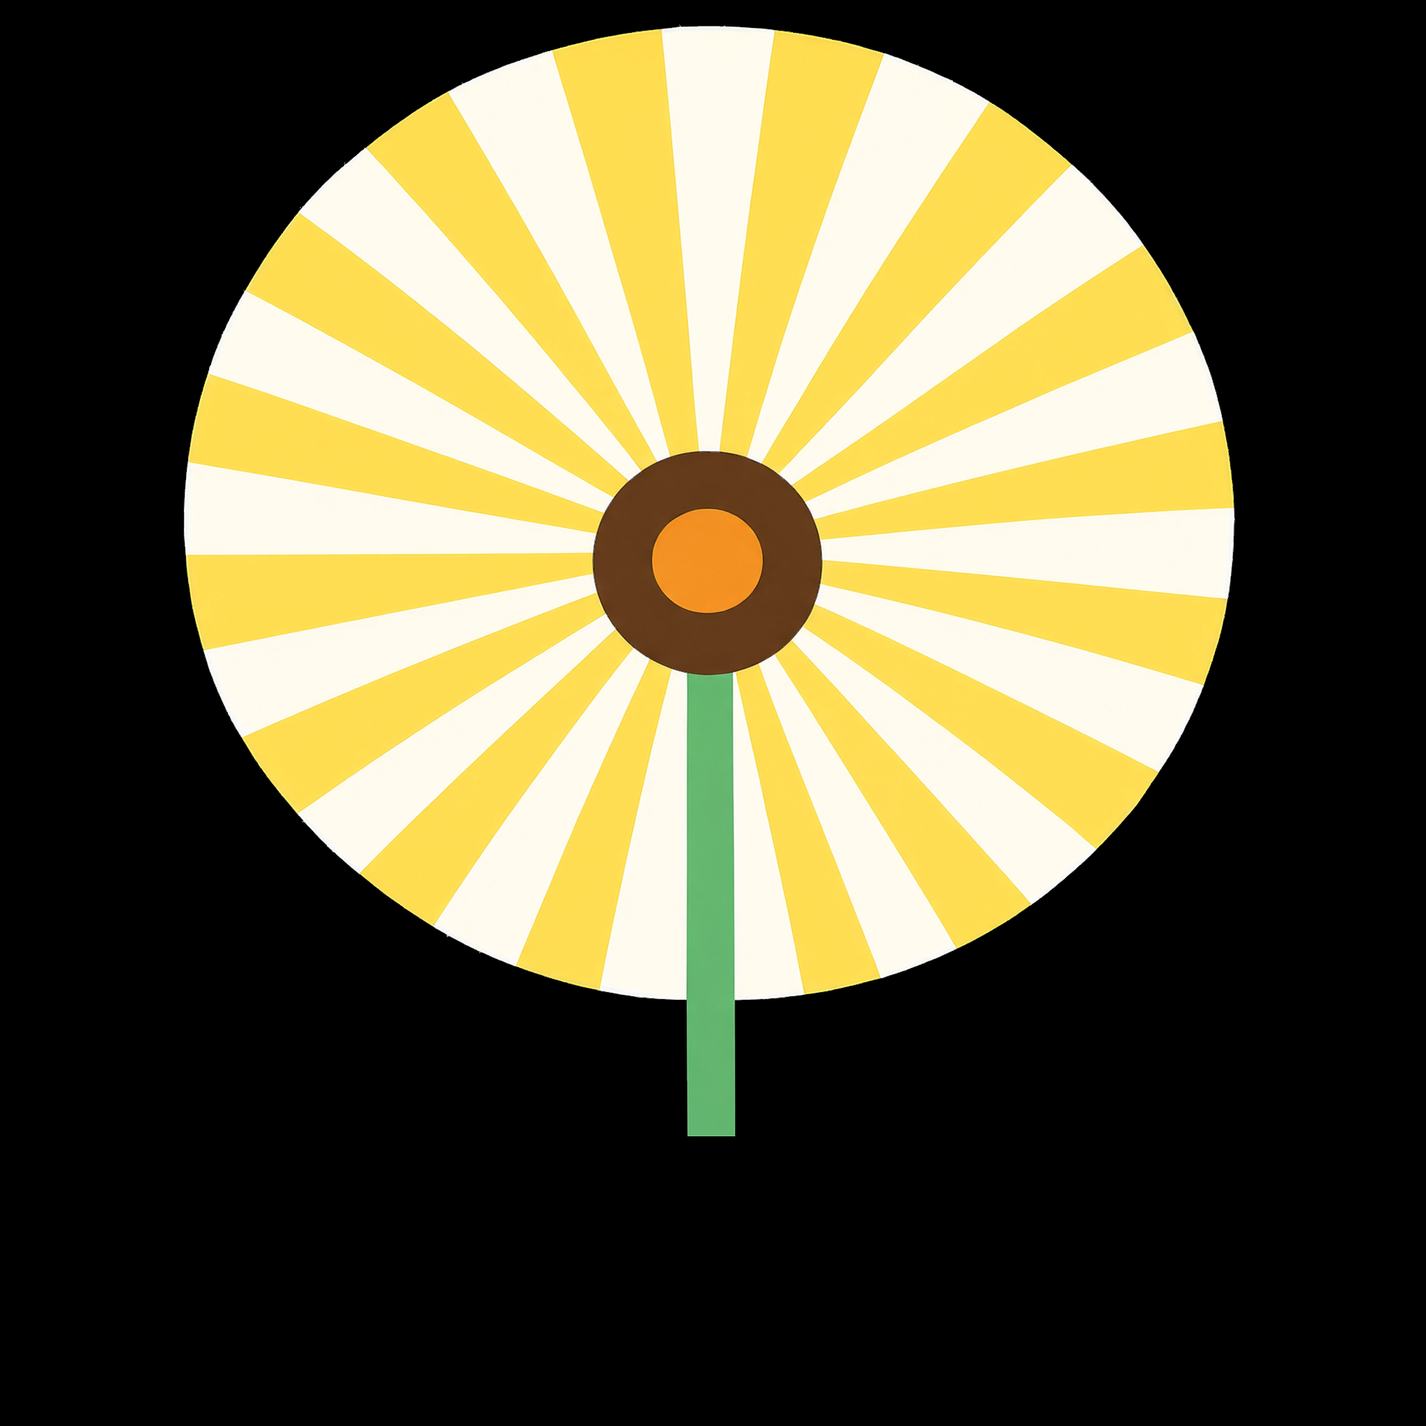
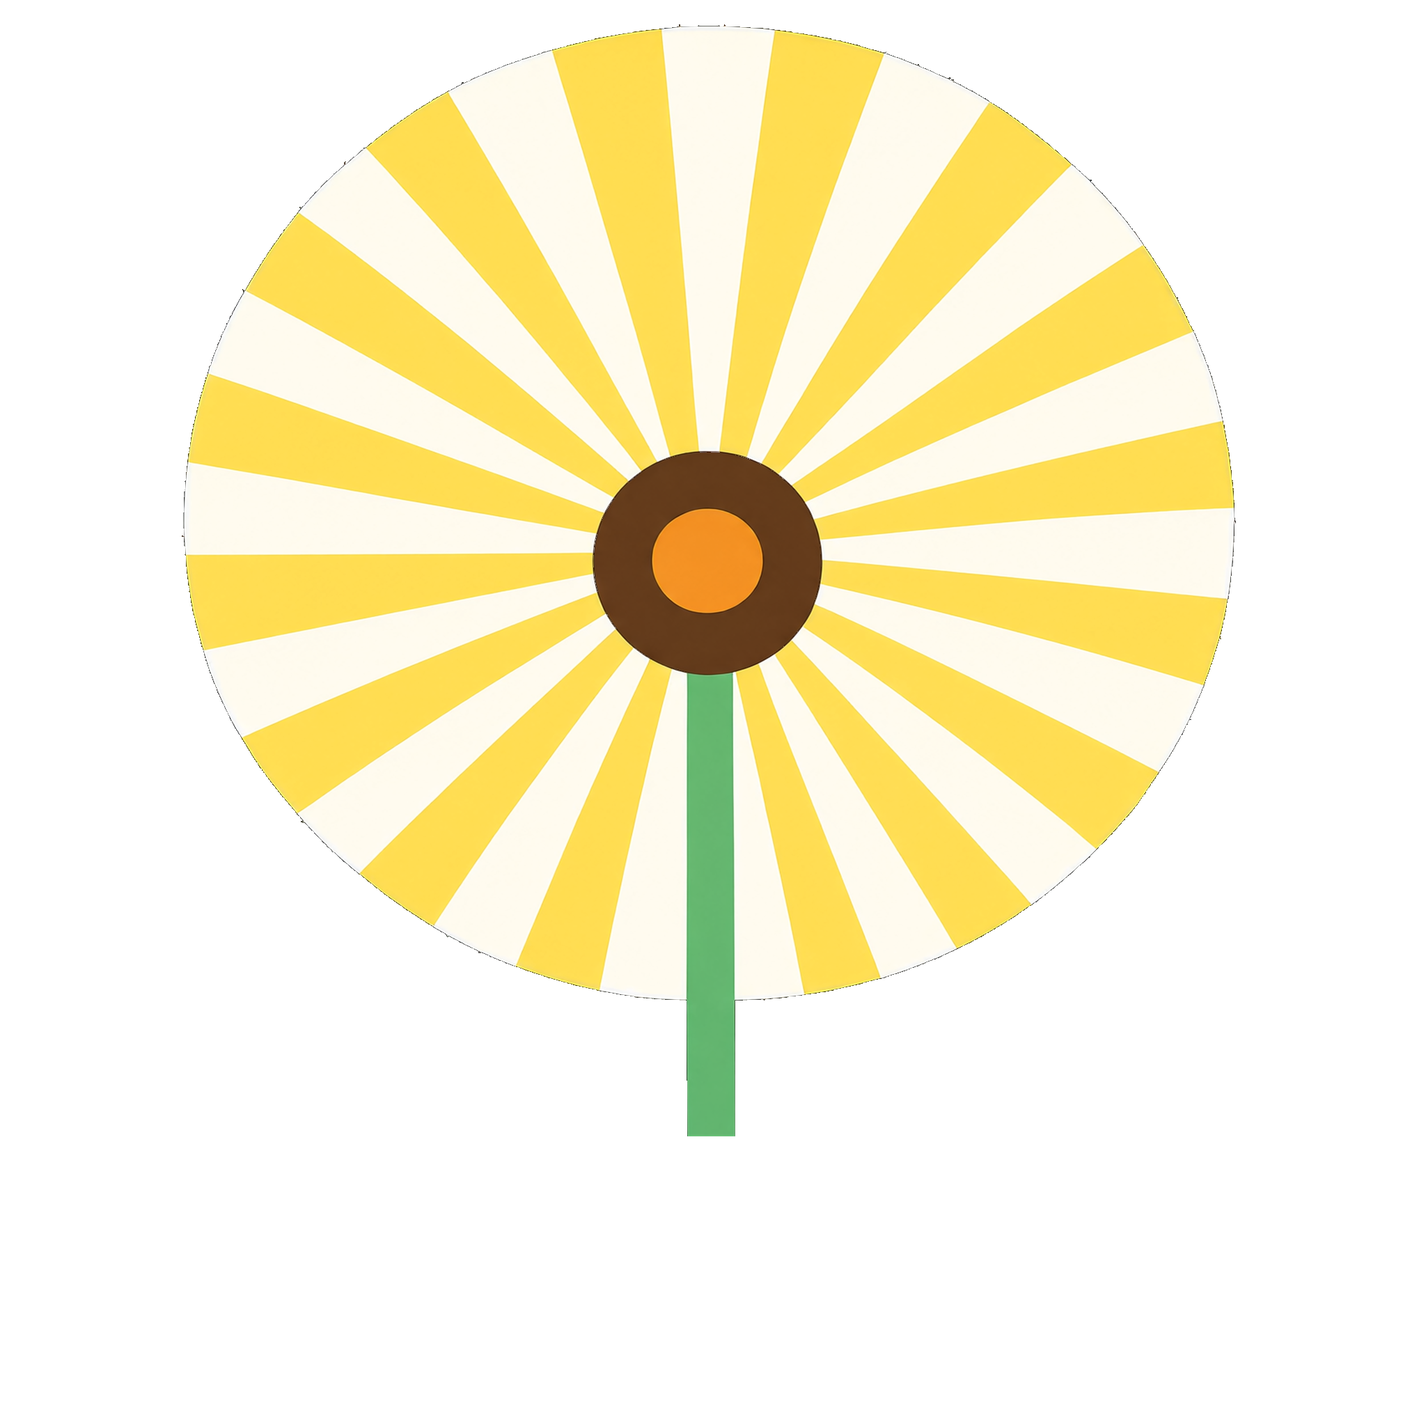
feat(art): A01-P08 蒲公英 v1 锁版 + A01 进度 8/180 (WXG-T-980)
- fix-a01p08-v1.py 重写：halo 用最近主体 RGB 就地填补（不置 α=0）+ 4 连通
  主分量过滤，与 extract-alpha 的 PIL floodfill 同口径 ⇒ G3 单连通 true
- 终版 a01p08-v1-s42-rgba-final.png：G9 73.93%×77.98%、近黑 0、alpha0 60.048%
- studio 32×32/c5/mis=max：importable=true、voidCells=0、F=0（458/458）
- G12 已知例外登记：只聚 4 色缺橙、最大色面 46.1%（白黄实测 87% 吸橙簇）
- 新增 generation-record.txt；台账追加 1 调用/1 出图/0 浪费
- series-spec：名额 7/180 → 8/180，P01–P08 全锁，下一步 P09 boss
- 清理 4 个重复中间件（final-2 / final2）

diff --git a/games/beads/design/art/proposals/levels-20arcs-selection-20261117/A01-P08-dandelion/fix-a01p08-v1.py b/games/beads/design/art/proposals/levels-20arcs-selection-20261117/A01-P08-dandelion/fix-a01p08-v1.py
@@ -1,14 +1,15 @@
 #!/usr/bin/env python3
 # -*- coding: utf-8 -*-
 """A01-P08 v1 确定性修复（零模型调用）。
-v1 问题：主体 G9 61.72% × 93.36%（球宽窄、茎戳到底 H 爆）+ 15 颗 1–4 px 孤点（破单连通）+
+v1 问题：G9 61.72% × 93.36%（球宽窄、茎戳到底 H 爆）+ 15 颗 1–4 px 孤点（破单连通）+
 LANCZOS 抗锯齿产生深色 halo（max<60 伪像素，破 G8 近黑禁）。
 修复：
-  1) 保留主连通分量（≥100 px），擦除所有孤点 → 单连通；
-  2) 茎底裁到 y=1570（画布 76.6% 处），使 H 由 93% 降到 ~76%；
-  3) 行级横纵独立拉伸到目标 W=1515 / H=1597（G9 74% × 78%），水平 / 纵向各算各自比例；
-  4) LANCZOS 后 α≥128 统一 255，再擦除 RGB.max()<40 的深色 halo（G8 合规）；
-  5) 再次 label + 只留主分量防残留漂点。
+  1) 擦除 <100 px 孤点；
+  2) 茎底裁到 y=1570（画布 76.6% 处）；
+  3) 横纵独立拉伸到 G9 目标（W 74% / H 78%），4× 放大再 LANCZOS 缩回；
+  4) α≥128 统一 255；深色 halo（max<60）用最近非 halo 像素 RGB 就地填补
+     —— 不置 α=0（会在体内造空洞，平铺黑底后成近黑孤岛，破 G8）；
+  5) 4 连通 label，只留主分量（≥10000 px）⇒ G3 与 extract-alpha 的 PIL floodfill 同口径。
 输入：a01p08-v1-s42-rgba.png（extract-alpha 抠图产物）。"""
 import os
 
@@ -23,16 +24,19 @@ DST = os.path.join(BATCH, "a01p08-v1-s42-rgba-fixed.png")
 im = Image.open(SRC).convert("RGBA")
 w, h = im.size
 arr = np.asarray(im).copy()
-a = arr[:, :, 3] > 128
 
-# ── 1) 保留主连通分量（≥100 px），擦除所有 ≤10 px 孤点 ──
+# ── 1) 擦除 <100 px 孤点（模型飞絮碎点） ──
+a = arr[:, :, 3] > 128
 labeled, n = ndimage.label(a, structure=np.ones((3, 3), dtype=int))
+removed = 0
 for i in range(1, n + 1):
     c = int((labeled == i).sum())
     if c < 100:
         arr[labeled == i] = 0
+        removed += 1
+print(f"speck components removed: {removed}")
 
-# ── 2) 茎底裁到 y=1570（画布 76.6% 处），H≈76% ──
+# ── 2) 茎底裁到 y=1570（画布 76.6% 处） ──
 arr[1570:, :, 3] = 0
 
 # ── 3) 横纵独立拉伸到 G9 目标 ──
@@ -52,18 +56,35 @@ shrunk = hi.resize((int(w * k_x), int(h * k_y)), Image.LANCZOS)
 canvas = Image.new("RGBA", (w, h), (0, 0, 0, 0))
 canvas.paste(shrunk, ((w - shrunk.size[0]) // 2, (h - shrunk.size[1]) // 2))
 
-# ── 4) α≥128 统一 255 + 擦除深色 halo（G8：主体禁近黑伪像素；置 α=0，非 RGB） ──
+# ── 4) α≥128 统一 255；深色 halo 用最近非 halo 主体 RGB 填补 ──
 arr_out = np.asarray(canvas).copy()
 arr_out[:, :, 3] = np.where(arr_out[:, :, 3] >= 128, 255, 0).astype(np.uint8)
-halo = (arr_out[:, :, 3] > 128) & (arr_out[:, :, :3].max(2) < 60)  # 只在原主体 alpha 内擦 halo，别吃黑 bg
-arr_out[halo, 3] = 0
+keep = arr_out[:, :, 3] > 0
+donor = keep & (arr_out[:, :, :3].max(2) >= 60)
+halo = keep & ~donor
+print(f"halo px (max<60, alpha>0): {int(halo.sum())}")
+if halo.any() and donor.any():
+    idx = ndimage.distance_transform_edt(~donor, return_distances=False, return_indices=True)
+    arr_out[:, :, :3] = arr_out[idx[0], idx[1], :3]
 
-# ── 5) 再次 label + 只留主分量 ──
-a3 = arr_out[:, :, 3] > 128
-lbl3, n3 = ndimage.label(a3, structure=np.ones((3, 3), dtype=int))
+# ── 5) 4 连通 label（与 PIL floodfill 同口径），只留主分量 ──
+a3 = arr_out[:, :, 3] > 0
+lbl3, n3 = ndimage.label(a3)  # 默认 cross = 4 连通
+sizes = ndimage.sum(a3, lbl3, range(1, n3 + 1))
+kept = int((sizes >= 10000).sum())
 for i in range(1, n3 + 1):
-    if int((lbl3 == i).sum()) < 10000:
+    if sizes[i - 1] < 10000:
         arr_out[lbl3 == i] = 0
+print(f"4-conn components: {n3}, kept: {kept}")
+
+# 自检
+final = arr_out[:, :, 3] > 0
+lf, nf = ndimage.label(final)
+print(f"final 4-conn components: {nf} (expect 1)")
+ys, xs = np.where(final)
+print(f"final bbox W% {(xs.max()-xs.min()+1)/w*100:.2f}  H% {(ys.max()-ys.min()+1)/h*100:.2f}")
+print(f"final near-black (max<=24 & alpha>0): "
+      f"{int((final & (arr_out[:, :, :3].max(2) <= 24)).sum())}")
 
 Image.fromarray(arr_out).save(DST)
 print("OK ->", DST)

diff --git a/games/beads/design/art/proposals/levels-20arcs-selection-20261117/series-spec.md b/games/beads/design/art/proposals/levels-20arcs-selection-20261117/series-spec.md
@@ -13,7 +13,7 @@
 |---|---|---|
 | 1 | 背景用「纯黑背景 + 程序化抠 alpha」：提示词写纯黑 `#000` 背景，出图后本地 floodfill 确定性抠成透明，可验收 | §3 把纯黑定性为**采样排除信号**：唯一目的就是让 studio 不采样背景区域；本地转 `alpha=0` 是把这个信号交给 studio 的方式，主体禁近黑，验收查 alpha 分布 |
 | 2 | 风格目标是「符合 studio 生图要求的风格画」，方法与口径由助手按行业最佳实践判断 | §1 给判断与依据，§2 落成可写进提示词的硬约束 |
-| 3 | **首轮只写 20 套系列规范**；180 条提示词留到逐张确认时再逐条写 | 本件止于风格宪法与流程；20 套模板与逐张占位字段已外移为明细册；**已出 4 张正式图且效果确认完成（A01-P01/P02/P03/P04，见各批目录）**，其余 176 待逐张确认。另有第 0 张通道探路（1 次调用，不占名额，见 §5/§8/§9） |
+| 3 | **首轮只写 20 套系列规范**；180 条提示词留到逐张确认时再逐条写 | 本件止于风格宪法与流程；20 套模板与逐张占位字段已外移为明细册；**已出 8 张正式图且效果确认完成（A01-P01–P08，见各批目录）**，其余 172 待逐张确认。另有第 0 张通道探路（1 次调用，不占名额，见 §5/§8/§9） |
 
 > **本轮补充裁定（用户原话）**：「纯黑的目的就是让studio不参与采样」。⇒ 纯黑既不是背景配色、不是画面元素，也不是一种「交付形态」；它的**唯一功能**是标记「这些像素不要进 studio 采样」。上一版写成「交付形态 → 入 studio 形态两段式」并围绕「纯黑 vs 炭黑是否冲突」展开，属于偏离目的的过度发挥，已按本条收敛（改动集中在 §0、§0.1、§1、§2 G7/G8、§3、§6 A12/A13、§7）。
 
@@ -120,7 +120,7 @@
 4. **色数 5–6＋色面均衡 G12**：全错豆 F=0 为目标（mis=max 下主导色 ≤50% 即可达，不需 balance）。
 5. **colors 请求 = 目标色数+1 余量**：像素 k-means 会丢小面积簇（P04 黄芯 2.8% 在 k=5 被吸进橙，k=6 解决）；实选色数以 `paletteHex` 为准。
 回溯裁定：P01–P03 按五令逐张重修＋重新效果确认（旧锁定版留档不删）；优先本地确定性重修（0 云调用），形态不足才重生。
-进度：**P01/P02/P03 回溯全毕**（2026-11-18：P01 v6 云重生 1 调用＋六步修复；P02 v4 / P03 v2 本地 0 调用六步修复＋披露修正；均用户裁定锁定替换；32×32/5 色/F=0）。下一步 P05 起新提示词直接写五令。
+进度：**A01 P01–P08 全锁**（P01–P03 回溯 2026-11-18；P04–P06 五令原生；P07 球形方案 2026-11-22；P08 蒲公英 v1 2026-11-22，G12 欠账登记为已知例外）。下一步 P09 花之王 boss（A01 收尾）。
 
 **探路张是第 0 张**，不占 180 张名额，专门验证 §0.1 的四项。✅ 已于 2026-11-17 完成一次取证（1 次调用 / 1 张 / 零浪费），读数与产物见 [`generation-record.txt`](probe-2048/generation-record.txt)；下表流程适用于其后逐张确认的正式 180 张。
 
@@ -149,8 +149,8 @@
 
 ## 9. 明确未做的事（截至 mis=full 链路复验完成）
 
-- **已写 4 张的正式提示词**（A01-P01 五版 / A01-P02 三版 / A01-P03 一版 / A01-P04 两版，全文见各批目录 `response-meta*.json` 的 `prompt` 字段），其余 176 条留到逐张确认时逐条写；第 0 张探路用的是中性测试体提示词，不占用任何题材，不属于 180 条。
-- **已出 7 张正式图案（占名额 7/180）且效果确认完成**：A01-P01 雏菊 **v6 回溯锁定**（用户 2026-11-18 裁定 PASS 替换旧 v5；花瓣语法＋黄白交替瓣＋赭棕基带＋绿萼短桩；G9 74.02/78.03、32×32、5 色、**F=0 全错豆**、mis=max 改色 0；回溯 1 调用 0 浪费，旧 v1–v5 留档）；v1–v4 不采用（台账订正 4 浪费）。未入关、未进 `final/`；重生史见 `A01-P01-daisy/generation-record.txt`。A01-P02 向日葵 **v4 回溯锁定**（同日裁定 PASS 替换旧 v3；茎叶弱化＋黄橙交替瓣＋第五色；G9 74.02/78.03、32×32、5 色、**F=0 全错豆**、mis=max 改色 0；回溯 0 调用，3 调用 2 浪费，史见 `A01-P02-sunflower/generation-record.txt`）。A01-P03 郁金香 **v2 回溯锁定**（同日裁定 PASS 替换旧 v1；茎叶弱化＋左红右橙三瓣杯＋第五色；G9 74.02/77.98、32×32、5 色、**F=0 全错豆**、mis=max 改色 0；回溯 0 调用，1 调用 0 浪费，史见 `A01-P03-tulip/generation-record.txt`）。A01-P04 玫瑰 **v2 花瓣语法＋格级化修复＋五色均衡锁定**（同日裁定 PASS；32×32、5 色、**F=0 全错豆**、G9 76.03/77.98、mis=max 改色 0；2 调用 1 浪费，史见 `A01-P04-rose/generation-record.txt`；系列五令试点张）。**P01–P03 回溯全毕**（均锁定替换）。A01-P05 三叶草 **v7 锁定**（用户 2026-11-21 PASS；路线 A 三色叶：顶绿/左橙/右黄近似等面积＋白 V 纹＋深棕叶心/茎基；32×32、5 色、**F=0（356/356）**、最大色面 34.6%；v6 因绿色 81.2% ⇒ F=233 退场；1 调用 1 浪费，史见 `A01-P05-clover/generation-record.txt`）。A01-P06 荷花 **v2 锁定**（用户 2026-11-21 PASS；宽瓣白/橙交替＋柠黄莲蓬＋草绿双水波＋深棕托座；v1 G9 85%/单连通 false 退场；v2 经 alpha 2px 腐蚀＋13px 绿桥＋80% 归一化；32×32、5 色、**F=0（416/416）**、最大色面 35.8%；史见 `A01-P06-lotus/generation-record.txt`）。A01-P07 仙人掌 **v4 锁定**（用户 2026-11-22 PASS；球形方案：球宽 68%＋五色瓜棱＋宽口浅盆；v1–v3 细高柱构图退场；v4 经行级横向拉伸 1.33＋重绘宽口浅盆＋花冠内盘放大；G9 77.1/73.8、32×32、5 色、**F=0（425/425）**、最大色面 35.8%；4 调用 3 浪费，史见 `A01-P07-cactus/generation-record.txt`）。另第 0 张探路 1 调用不占名额（台账/record 已写）。
+- **已写 8 张的正式提示词**（A01-P01–P08，含各版退场稿，全文见各批目录 `response-meta*.json` 的 `prompt` 字段），其余 172 条留到逐张确认时逐条写；第 0 张探路用的是中性测试体提示词，不占用任何题材，不属于 180 条。
+- **已出 8 张正式图案（占名额 8/180）且效果确认完成**：A01-P01 雏菊 **v6 回溯锁定**（用户 2026-11-18 裁定 PASS 替换旧 v5；花瓣语法＋黄白交替瓣＋赭棕基带＋绿萼短桩；G9 74.02/78.03、32×32、5 色、**F=0 全错豆**、mis=max 改色 0；回溯 1 调用 0 浪费，旧 v1–v5 留档）；v1–v4 不采用（台账订正 4 浪费）。未入关、未进 `final/`；重生史见 `A01-P01-daisy/generation-record.txt`。A01-P02 向日葵 **v4 回溯锁定**（同日裁定 PASS 替换旧 v3；茎叶弱化＋黄橙交替瓣＋第五色；G9 74.02/78.03、32×32、5 色、**F=0 全错豆**、mis=max 改色 0；回溯 0 调用，3 调用 2 浪费，史见 `A01-P02-sunflower/generation-record.txt`）。A01-P03 郁金香 **v2 回溯锁定**（同日裁定 PASS 替换旧 v1；茎叶弱化＋左红右橙三瓣杯＋第五色；G9 74.02/77.98、32×32、5 色、**F=0 全错豆**、mis=max 改色 0；回溯 0 调用，1 调用 0 浪费，史见 `A01-P03-tulip/generation-record.txt`）。A01-P04 玫瑰 **v2 花瓣语法＋格级化修复＋五色均衡锁定**（同日裁定 PASS；32×32、5 色、**F=0 全错豆**、G9 76.03/77.98、mis=max 改色 0；2 调用 1 浪费，史见 `A01-P04-rose/generation-record.txt`；系列五令试点张）。**P01–P03 回溯全毕**（均锁定替换）。A01-P05 三叶草 **v7 锁定**（用户 2026-11-21 PASS；路线 A 三色叶：顶绿/左橙/右黄近似等面积＋白 V 纹＋深棕叶心/茎基；32×32、5 色、**F=0（356/356）**、最大色面 34.6%；v6 因绿色 81.2% ⇒ F=233 退场；1 调用 1 浪费，史见 `A01-P05-clover/generation-record.txt`）。A01-P06 荷花 **v2 锁定**（用户 2026-11-21 PASS；宽瓣白/橙交替＋柠黄莲蓬＋草绿双水波＋深棕托座；v1 G9 85%/单连通 false 退场；v2 经 alpha 2px 腐蚀＋13px 绿桥＋80% 归一化；32×32、5 色、**F=0（416/416）**、最大色面 35.8%；史见 `A01-P06-lotus/generation-record.txt`）。A01-P07 仙人掌 **v4 锁定**（用户 2026-11-22 PASS；球形方案：球宽 68%＋五色瓜棱＋宽口浅盆；v1–v3 细高柱构图退场；v4 经行级横向拉伸 1.33＋重绘宽口浅盆＋花冠内盘放大；G9 77.1/73.8、32×32、5 色、**F=0（425/425）**、最大色面 35.8%；4 调用 3 浪费，史见 `A01-P07-cactus/generation-record.txt`）。A01-P08 蒲公英 **v1 锁定**（用户 2026-11-22 PASS；28 条严格白/黄交替射线绒球＋深棕花盘＋橙斑＋草绿短茎；原始 G9 61.72/93.36、单连通 false，经 **0 调用**确定性修复：去孤点＋茎裁＋横纵独立拉伸＋halo 就地填补＋4 连通主分量 ⇒ G9 73.93/77.98、单连通 true、近黑 0；32×32、**F=0（458/458）**；⚠ G12 已知例外：studio 只聚 4 色缺橙、最大色面 46.1%——白黄实测 ≈87% 吸收橙簇，recolor 尝试致 3 色不可导入已放弃，欠账待 P09 后评估 v2；1 调用 0 浪费，史见 `A01-P08-dandelion/generation-record.txt`）。另第 0 张探路 1 调用不占名额（台账/record 已写）。
 - 未改 `candidates.json` / `README.md` / 两册逐关明细 / 任何 `design/levels/**` 真源 / 任何 `src/**` 或 `tests/**`。
 - 未跑 `levels:sync`、未入关、未把探路图或正式第 1 张放进 `final/`（studio `draft=1` 只写 `data/_draft/`）；任务台账登记与 git 提交已于 WXG-T-979 收口批完成（上一轮的「未改台账 / 未执行 commit」为该轮时点读数）。
 - ✅ **已验证**「RGBA 图喂进 studio 后用色数不含背景色号」（2026-11-17）：`POST /api/generate` 上送 `probe-s42-rgba.png` 原样 2048² RGBA，`HTTP 200`。`report.voidCells=0`（四边框去背景那步空转，背景从未成为色号）、`paletteHex` 仅四色主体色、无任何黑/近黑色号、`colorsUsed=4`、`colorLimit.changed=0`；136 个 `.` 与逐格复算差 0；主体单连通 120 格。证据 [`studio-verify.json`](probe-2048/studio-verify.json) 与原始响应 [`studio-draft-response.json`](probe-2048/studio-draft-response.json)。

diff --git a/production/qa/token-plan-usage-ledger.md b/production/qa/token-plan-usage-ledger.md
@@ -192,3 +192,5 @@ ls temp/wan27-probe-20261101 temp/wan27-full-20261101 \
 **补登（原批次 2026-11-21 · A01-P05 三叶草 v1–v7；2026-11-22 回填）**：Token Plan **5 次调用 / 出图 5 张 / 浪费 4 次 / 留档 5 张**（`qwen-image-3.0-pro` t2i `--size '2048*2048'` seed 42、`prompt_extend=False`，单发 16.3–21.9 s，均 `qima_output_2k`）。版本链：v1（绿叶＋白/橙 V 纹，16.7 s / `0061d129…`）与 v2（叶簇撑满画布，16.6 s / `15ecb418…`）未采用；v3 = v2 本地确定性修复（**0 调用**）；v4（左叶改橙 4 色，21.9 s / `455d9e18…`）未采用；v5 = v4 本地修复（**0 调用**）；v6（全绿叶＋深棕叶心，16.6 s / `c13e0293…`）32×32 绿色 81.2% ⇒ F=233 退场；v7（三色叶绿/橙/黄＋白 V 纹＋深棕叶心/茎基，16.3 s / `33209583…`）**用户 2026-11-21 PASS 锁定**：32×32、5 色、**F=0（356/356）**、最大色面 34.6%。证据：`A01-P05-clover/`（generation-record.txt、response-meta-v1/2/4/6/7.json、a01p05-v7-max-32-c5-beads-plain.png）。
 
 **补登（原批次 2026-11-21 · A01-P06 荷花 v1–v2；2026-11-22 回填）**：Token Plan **2 次调用 / 出图 2 张 / 浪费 1 次 / 留档 2 张**（`qwen-image-3.0-pro` t2i `--size '2048*2048'` seed 42、`prompt_extend=False`，单发 16.5 / 16.6 s，`qima_output_2k`）。v1（16.5 s / `b2a01121…`）G9 84.96%×85.06% 超上限、单连通 false、32×32 棕点散 ⇒ 退场；v2（16.6 s / `d7b19910…`）经 **0 调用**本地修复（alpha 2px 腐蚀＋13px 绿桥＋80% 归一化）⇒ G9 80.03%×77.83%、5 色、**F=0（416/416）**、最大色面 35.8%，**用户 2026-11-21 PASS 锁定**。证据：`A01-P06-lotus/`（generation-record.txt、response-meta-v1/v2.json、a01p06-v2-max-32-c5-beads-plain.png）。
+
+**追加（2026-11-22 · A01-P08 蒲公英 v1 ＋确定性修复锁定）**：Token Plan **1 次调用 / 出图 1 张 / 浪费 0 次**（`qwen-image-3.0-pro` t2i `--size '2048*2048'` seed 42、`prompt_extend=False`，单发 17.6 s，`qima_output_2k`，request_id `57731d0f…`）。设计：28 条严格白/黄交替射线绒球＋深棕花盘＋橙斑＋草绿短茎，五色分区。原始抠图 G9 61.72%×93.36%、单连通 false（15 颗 1–4 px 飞絮碎点）。**0 调用**本地修复（fix-a01p08-v1.py）：去孤点→茎裁 y=1570→横纵独立拉伸（k_x 1.199 / k_y 1.114）→深色 halo 1,118 px 用最近主体 RGB 就地填补（不置 α=0，避免体内空洞成近黑孤岛）→**4 连通**主分量过滤（与 extract-alpha 同口径）。终值：G9 **73.93%×77.98%**、单连通 true、四角透明、近黑 0 px、alpha0 60.048%。studio 32×32/colors=5/mis=max：`importable=true`、`blockers=[]`、`voidCells=0`、**F=0（N=458，MAXIMAL）**。⚠ **G12 偏差**：只聚 **4 色**（缺活力橙）、最大色面 **46.1%** 超 40%——v1 白+黄实测 ≈87%（设计 42%），橙斑仅 1.1%（设计 7%）；recolor 修复尝试（白→棕 30.7 万 px／黄→橙 9.3 万 px）致 studio 只聚 3 色、importable=false，放弃。用户 2026-11-22 裁定**锁版 v1**，G12 欠账登记为已知例外，P09 boss 后统一评估是否出 v2。A01 进度 **8/9**。证据：批目录 `A01-P08-dandelion/`（generation-record.txt、fix-a01p08-v1.py、recolor-v1.py、studio-full-verify-v1-max-32-c5.json、a01p08-v1-max-32-c5-beads-plain.png）。

diff --git a/ctx/BUDGET.md b/ctx/BUDGET.md
@@ -101,8 +101,8 @@
 | `games/beads/design/art/specs/tint-mask-asset-spec.md` | 10268 | spec · 8000 | 见 `ctx/budget-exempt.json`（无豁免则 ❌ 需报告主理人） |
 | `games/beads/design/gdd/meta-ui.md` | 10211 | spec · 8000 | 见 `ctx/budget-exempt.json`（无豁免则 ❌ 需报告主理人） |
 | `games/beads/design/gdd/core-loop.md` | 9905 | spec · 8000 | 见 `ctx/budget-exempt.json`（无豁免则 ❌ 需报告主理人） |
+| `games/beads/design/art/proposals/levels-20arcs-selection-20261117/series-spec.md` | 9520 | spec · 8000 | 见 `ctx/budget-exempt.json`（无豁免则 ❌ 需报告主理人） |
 | `games/beads/design/audio/audio-events.md` | 9482 | spec · 8000 | 见 `ctx/budget-exempt.json`（无豁免则 ❌ 需报告主理人） |
-| `games/beads/design/art/proposals/levels-20arcs-selection-20261117/series-spec.md` | 9348 | spec · 8000 | 见 `ctx/budget-exempt.json`（无豁免则 ❌ 需报告主理人） |
 | `games/beads/design/gdd/score-combo.md` | 9277 | spec · 8000 | 见 `ctx/budget-exempt.json`（无豁免则 ❌ 需报告主理人） |
 | `games/beads/design/gdd/tray-spawner.md` | 9267 | spec · 8000 | 见 `ctx/budget-exempt.json`（无豁免则 ❌ 需报告主理人） |
 | `docs/architecture/adr/ADR-0018-beads-board-size-playability.md` | 9191 | spec · 8000 | 见 `ctx/budget-exempt.json`（无豁免则 ❌ 需报告主理人） |
